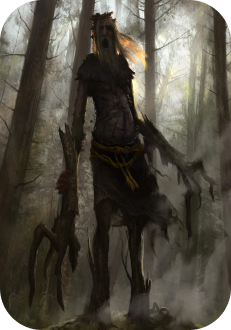
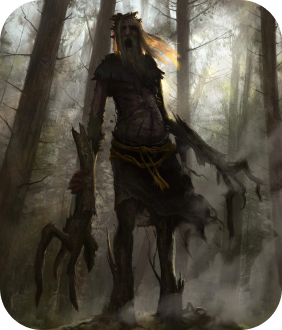
addSliderDesc

diff --git a/src/partials/famous.html b/src/partials/famous.html
@@ -18,17 +18,29 @@
       <ul class="slider__track">
         <li class="slide">
           <a class="slide__link" href="#">
-            <img class="slider-famous__img" src="./images/famous-main/Item-1.png" alt="">
+            <picture class="slide__picture">
+              <!-- <source srcset="./images/hero/witcher-desc.jpeg" media="(min-width: 1200px)"> -->
+              <source srcset="./images/famous-main/Item-tab-1.png" media="(min-width: 580px)">
+              <img class="slider-famous__img" src="./images/famous-main/Item-1.png" alt="£">
+            </picture>
           </a>
         </li>
         <li class="slide">
           <a class="slide__link" href="#">
-            <img class="slider-famous__img" src="./images/famous-main/Item-2.png" alt="">
+            <picture class="slide__picture">
+              <!-- <source srcset="./images/hero/witcher-desc.jpeg" media="(min-width: 1200px)"> -->
+              <source srcset="./images/famous-main/Item-tab-2.png" media="(min-width: 580px)">
+              <img class="slider-famous__img" src="./images/famous-main/Item-2.png" alt="£">
+            </picture>
           </a>
         </li>
         <li class="slide">
           <a class="slide__link" href="#">
-            <img class="slider-famous__img" src="./images/famous-main/Item-3.png" alt="">
+            <picture class="slide__picture">
+              <!-- <source srcset="./images/hero/witcher-desc.jpeg" media="(min-width: 1200px)"> -->
+              <source srcset="./images/famous-main/Item-tab-3.png" media="(min-width: 580px)">
+              <img class="slider-famous__img" src="./images/famous-main/Item-3.png" alt="£">
+            </picture>
           </a>
         </li>
 

diff --git a/src/sass/layout/page-main/_famous.scss b/src/sass/layout/page-main/_famous.scss
@@ -44,7 +44,11 @@
   scroll-snap-type: x mandatory;
 
   @media (min-width: 580px) {
-    gap: 0 16px;
+    column-gap: 16px;
+  }
+
+  @media (min-width: 1200px) {
+    overflow-x: visible;
   }
 }
 
@@ -54,10 +58,27 @@
   scroll-snap-align: center;
   scroll-snap-stop: always;
 
+  border-radius: 30px;
+
+  overflow: hidden;
+
   height: 220px;
 
+  transition: transform 250ms ease-in;
+
   @media (min-width: 580px) {
-    flex: 0 0 256;
+    flex-basis: 256px;
+    height: 205px;
+    border-radius: 15px;
+  }
+
+  @media (min-width: 1200px) {
+    flex-grow: 1;
+
+    &:hover {
+      transform: scale(1.1);
+    }
+
   }
 }
 
@@ -65,11 +86,10 @@
 .slider-famous__img {
   object-fit: cover;
   object-position: center;
-  border-radius: 30px;
+  // border-radius: 30px;
   height: 100%;
 
-  @media (min-width: 580px) {
-    object-position: top;
-    border-radius: 45px;
-  }
+  // @media (min-width: 580px) {
+  //   height: 205px;
+  // }
 }
